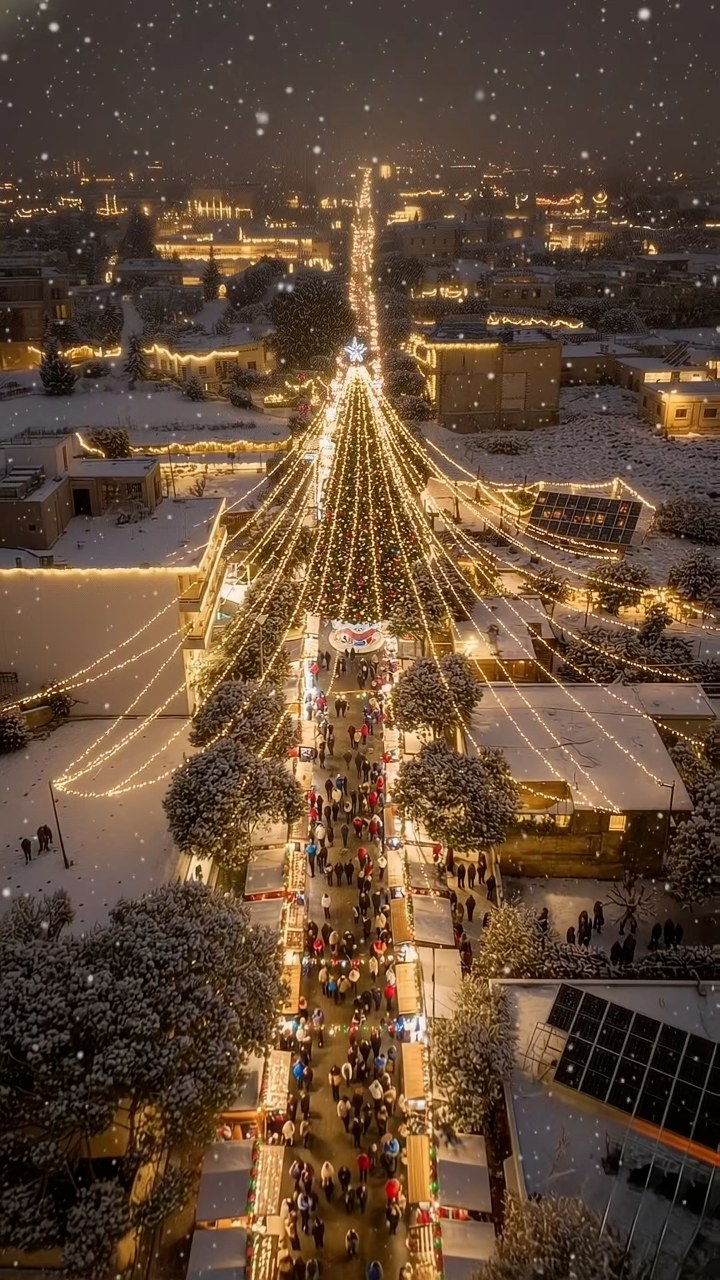
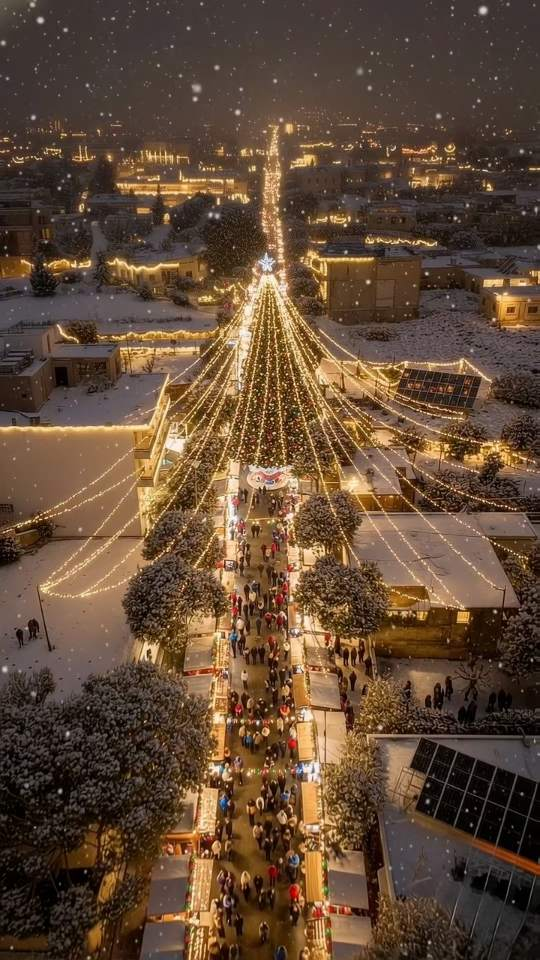
fixes

Changed region(s): [[0.5037, 0.4375, 0.5333, 0.4688], [0.4444, 0.375, 0.4741, 0.4062]]

diff --git a/assets/css/styles.css b/assets/css/styles.css
@@ -53,9 +53,7 @@ input {
 .blizzard-intro {
   position: fixed;
   z-index: 5;
-  inset: 0;
-  width: 100%;
-  height: 100%;
+  inset: -16px;
   overflow: hidden;
   pointer-events: none;
 }
@@ -68,6 +66,8 @@ input {
 
 .blizzard-whiteout {
   top: 0;
+  right: 0;
+  width: var(--blizzard-sheet-width);
   height: 100%;
 }
 
@@ -131,7 +131,14 @@ input {
   inset: 0 0 auto;
   height: 100vh;
   height: 100lvh;
-  background: url("../background-mobile-poster.jpg") var(--scene-position) / cover no-repeat;
+  /* Start with the embedded scene while the full-size poster and video download. */
+  background-color: #241b17;
+  background-image:
+    url("../background-mobile-poster.jpg"),
[1 lines of base64/hex data omitted]
+  background-position: var(--scene-position);
+  background-size: cover;
+  background-repeat: no-repeat;
 }
 
 .media::after {
@@ -871,7 +878,9 @@ input:is(:autofill, :-webkit-autofill) {
   .media-frame {
     --scene-position: calc(var(--split) / 2 - 100svh * 8 / 9) center;
     height: 100%;
-    background-image: url("../background-poster.jpg");
+    background-image:
+      url("../background-poster.jpg"),
[1 lines of base64/hex data omitted]
   }
 
   .media::after {
@@ -1004,11 +1013,13 @@ input:is(:autofill, :-webkit-autofill) {
   }
 
   .reveal {
+    --reveal-animation: pop-in;
     --reveal-scale: 0.92;
   }
 
-  .card.reveal {
-    --reveal-scale: 0.98;
+  .card.reveal,
+  #registration > .row.reveal {
+    --reveal-animation: fade-in;
   }
 
   .reveal:not(.is-in-view, :focus-visible) {
@@ -1031,11 +1042,11 @@ input:is(:autofill, :-webkit-autofill) {
   .reveal.is-in-view:not(.hero-logo, .scroll-cue, .blizzard-presented, .instagram-link:focus-visible, :has(.confirmation:not([hidden]))),
   .hero-logo.is-in-view:not(.blizzard-presented) > .logo,
   .scroll-cue.is-in-view:not(.blizzard-presented, :focus-visible) > .cta {
-    animation: pop-in var(--reveal-duration) var(--reveal-ease) var(--reveal-delay, 0ms) backwards;
+    animation: var(--reveal-animation) var(--reveal-duration) var(--reveal-ease) var(--reveal-delay, 0ms) backwards;
   }
 
   .card.is-in-view .confirmation:not([hidden]) {
-    animation: confirmation-fade-in var(--reveal-duration) var(--reveal-ease) backwards;
+    animation: fade-in var(--reveal-duration) var(--reveal-ease) backwards;
   }
 }
 
@@ -1071,7 +1082,7 @@ input:is(:autofill, :-webkit-autofill) {
   }
 }
 
-@keyframes confirmation-fade-in {
+@keyframes fade-in {
   from { opacity: 0; }
   50% { opacity: 0.5; }
   to { opacity: 1; }

diff --git a/assets/js/script.js b/assets/js/script.js
@@ -36,19 +36,18 @@ function initBlizzard(intro, onClear) {
   intro.style.setProperty("--blizzard-sweep-delay", `${duration * clearStart}ms`);
   intro.style.setProperty("--blizzard-sweep-length", `${duration * (clearEnd - clearStart)}ms`);
 
-  function resize() {
-    const width = intro.clientWidth;
-    const height = intro.clientHeight;
+  function prepareFog() {
+    const { width, height, left, top } = intro.getBoundingClientRect();
     const fogWidth = width * 0.74;
     const fogHeight = height * 0.16;
     const fogY = height * 0.45;
     const fogLengthSquared = Math.max(1, fogWidth ** 2 + fogHeight ** 2);
     // Keep the sheet's left boundary outside the soft fog, even on tall screens.
     const fogX = ((height - fogY) * fogHeight + 0.5 * fogLengthSquared) / Math.max(1, fogWidth);
-    const sheetLeft = width * fogOrigin - fogX;
-    const sheetPixels = width - sheetLeft + 2;
-    whiteout.style.left = `${sheetLeft}px`;
-    whiteout.style.width = `${sheetPixels}px`;
+    const sheetPixels = width * (1 - fogOrigin) + fogX;
+    // Keep the painted sheet and its sweep proportional to the viewport during toolbar changes.
+    intro.style.setProperty("--blizzard-sheet-width", `${100 * sheetPixels / width}%`);
+    intro.style.setProperty("--blizzard-travel", `${100 * width * windTravel / sheetPixels}%`);
     const ratio = Math.min(0.35, 420 / Math.max(1, sheetPixels), 295 / Math.max(1, height));
     whiteout.width = Math.max(1, Math.round(sheetPixels * ratio));
     whiteout.height = Math.max(1, Math.round(height * ratio));
@@ -75,15 +74,13 @@ function initBlizzard(intro, onClear) {
       ctx.restore();
     }
 
-    intro.style.setProperty("--blizzard-travel", `${width * windTravel}px`);
-
     // Use the middle of the fog front to time each reveal.
     const fogTravel = Math.max(1, width * windTravel * fogWidth);
     let formRevealStart = 0;
     for (const target of targets) {
       const bounds = target.getBoundingClientRect();
-      const x = bounds.left + bounds.width / 2 - width * fogOrigin;
-      const y = bounds.top + bounds.height / 2 - fogY;
+      const x = bounds.left + bounds.width / 2 - left - width * fogOrigin;
+      const y = bounds.top + bounds.height / 2 - top - fogY;
       const projection = x * fogWidth + y * fogHeight;
       const reaches = sweepTime((projection - 0.87 * fogLengthSquared) / fogTravel);
       const ends = sweepTime((projection - 0.05 * fogLengthSquared) / fogTravel);
@@ -103,7 +100,6 @@ function initBlizzard(intro, onClear) {
 
   function finish() {
     clearTimeout(deadline);
-    window.removeEventListener("resize", resize);
     window.removeEventListener("pagehide", finish);
     document.removeEventListener("focusin", finish);
     whiteout.removeEventListener("animationend", finishOnFade);
@@ -121,12 +117,11 @@ function initBlizzard(intro, onClear) {
   }
 
   intro.hidden = false;
-  resize();
+  prepareFog();
   for (const target of targets) target.classList.add("blizzard-emerge");
   intro.classList.add("is-playing");
   const deadline = setTimeout(finish, duration + 1200);
   whiteout.addEventListener("animationend", finishOnFade);
-  window.addEventListener("resize", resize);
   window.addEventListener("pagehide", finish, { once: true });
   document.addEventListener("focusin", finish, { once: true });
   return targets;
@@ -337,7 +332,7 @@ function initViewportReveals(blizzardTargets = []) {
   }, { rootMargin: "64px 0px" });
 
   const elements = document.querySelectorAll(
-    ".hero-logo, .scroll-cue, .hero-actions .instagram-link, .card, #registration :is(.card-header, .field, .form-actions)",
+    ".hero-logo, .scroll-cue, .hero-actions .instagram-link, .card, #registration > :is(.card-header, .field, .row, .form-actions)",
   );
   for (const element of elements) {
     element.classList.add("reveal");

diff --git a/index.html b/index.html
@@ -7,6 +7,8 @@
   <meta name="description" content="Christmas registration for Deir El Ahmar and the surrounding villages.">
   <meta name="theme-color" content="#000000">
   <link rel="icon" type="image/png" href="assets/logo.png">
+  <link rel="preload" as="image" href="assets/background-mobile-poster.jpg" media="not all and (min-width: 64rem) and (min-aspect-ratio: 5/4)" fetchpriority="high">
+  <link rel="preload" as="image" href="assets/background-poster.jpg" media="(min-width: 64rem) and (min-aspect-ratio: 5/4)" fetchpriority="high">
   <script>
     {
       const musicListeners = new AbortController();
